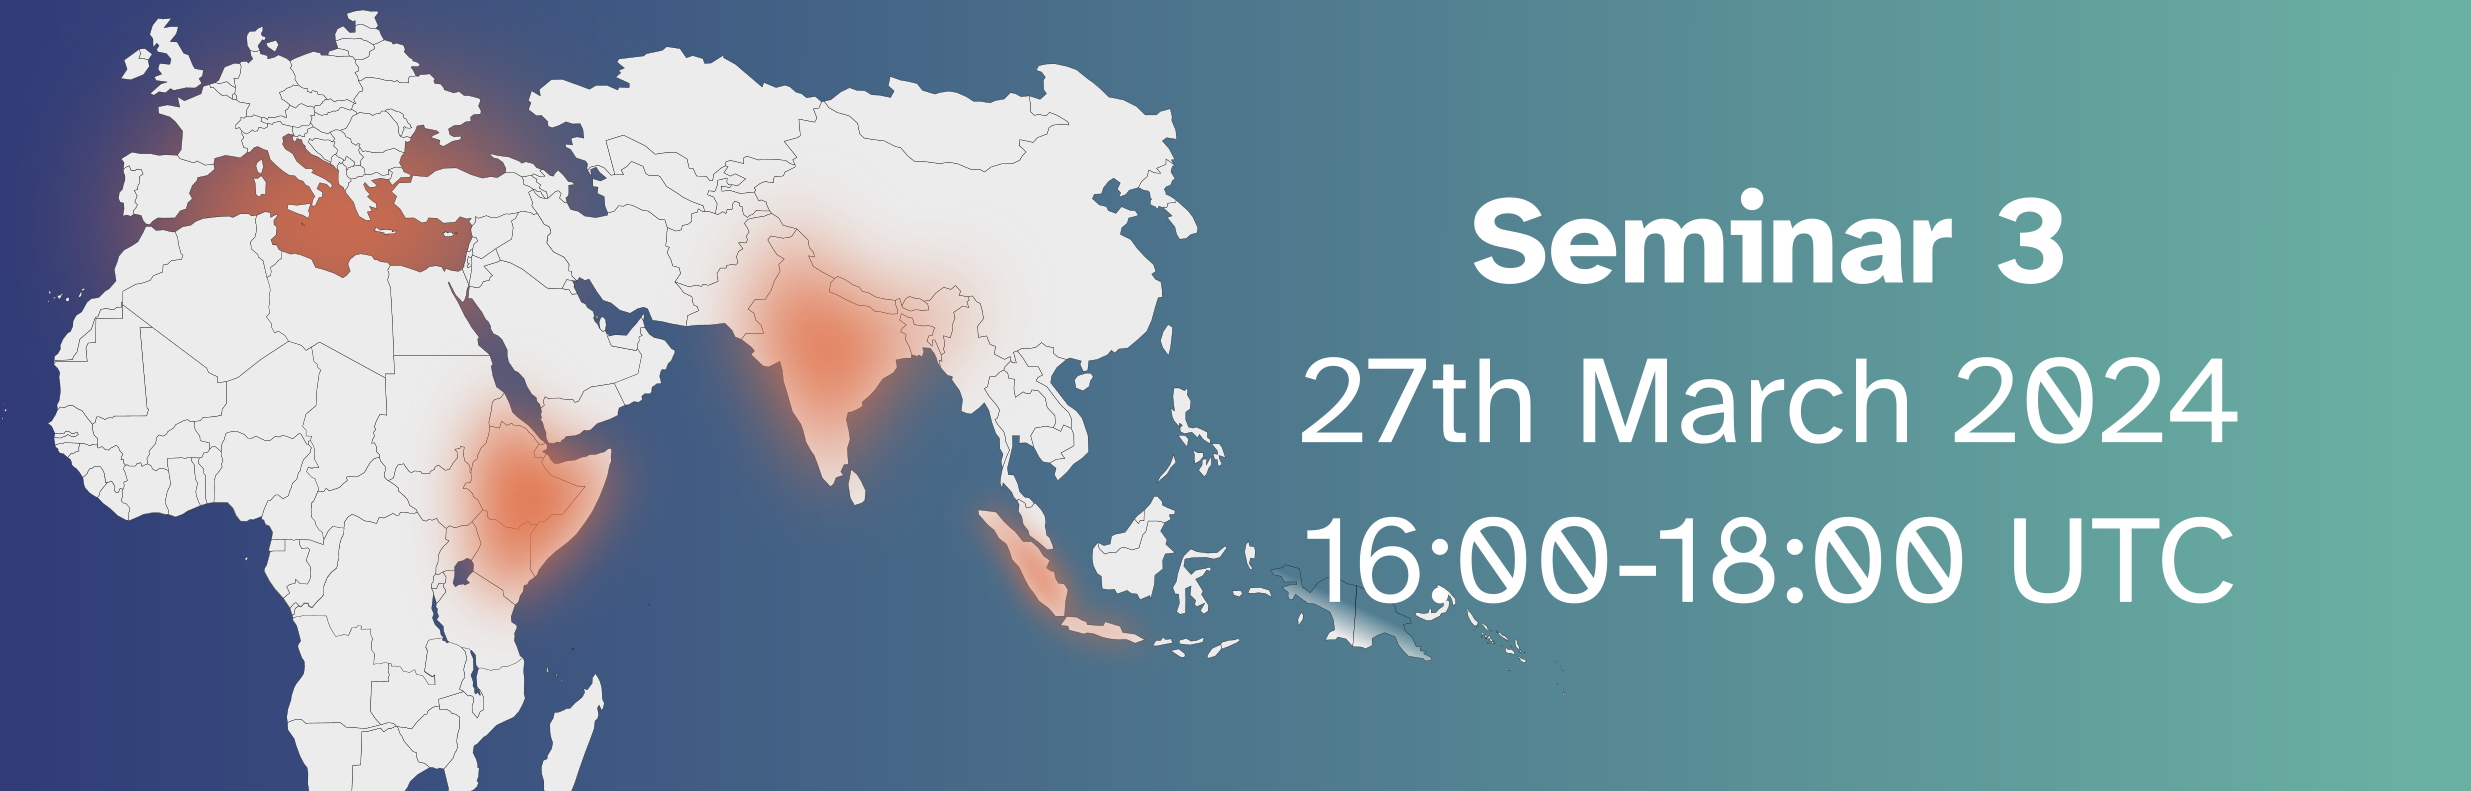
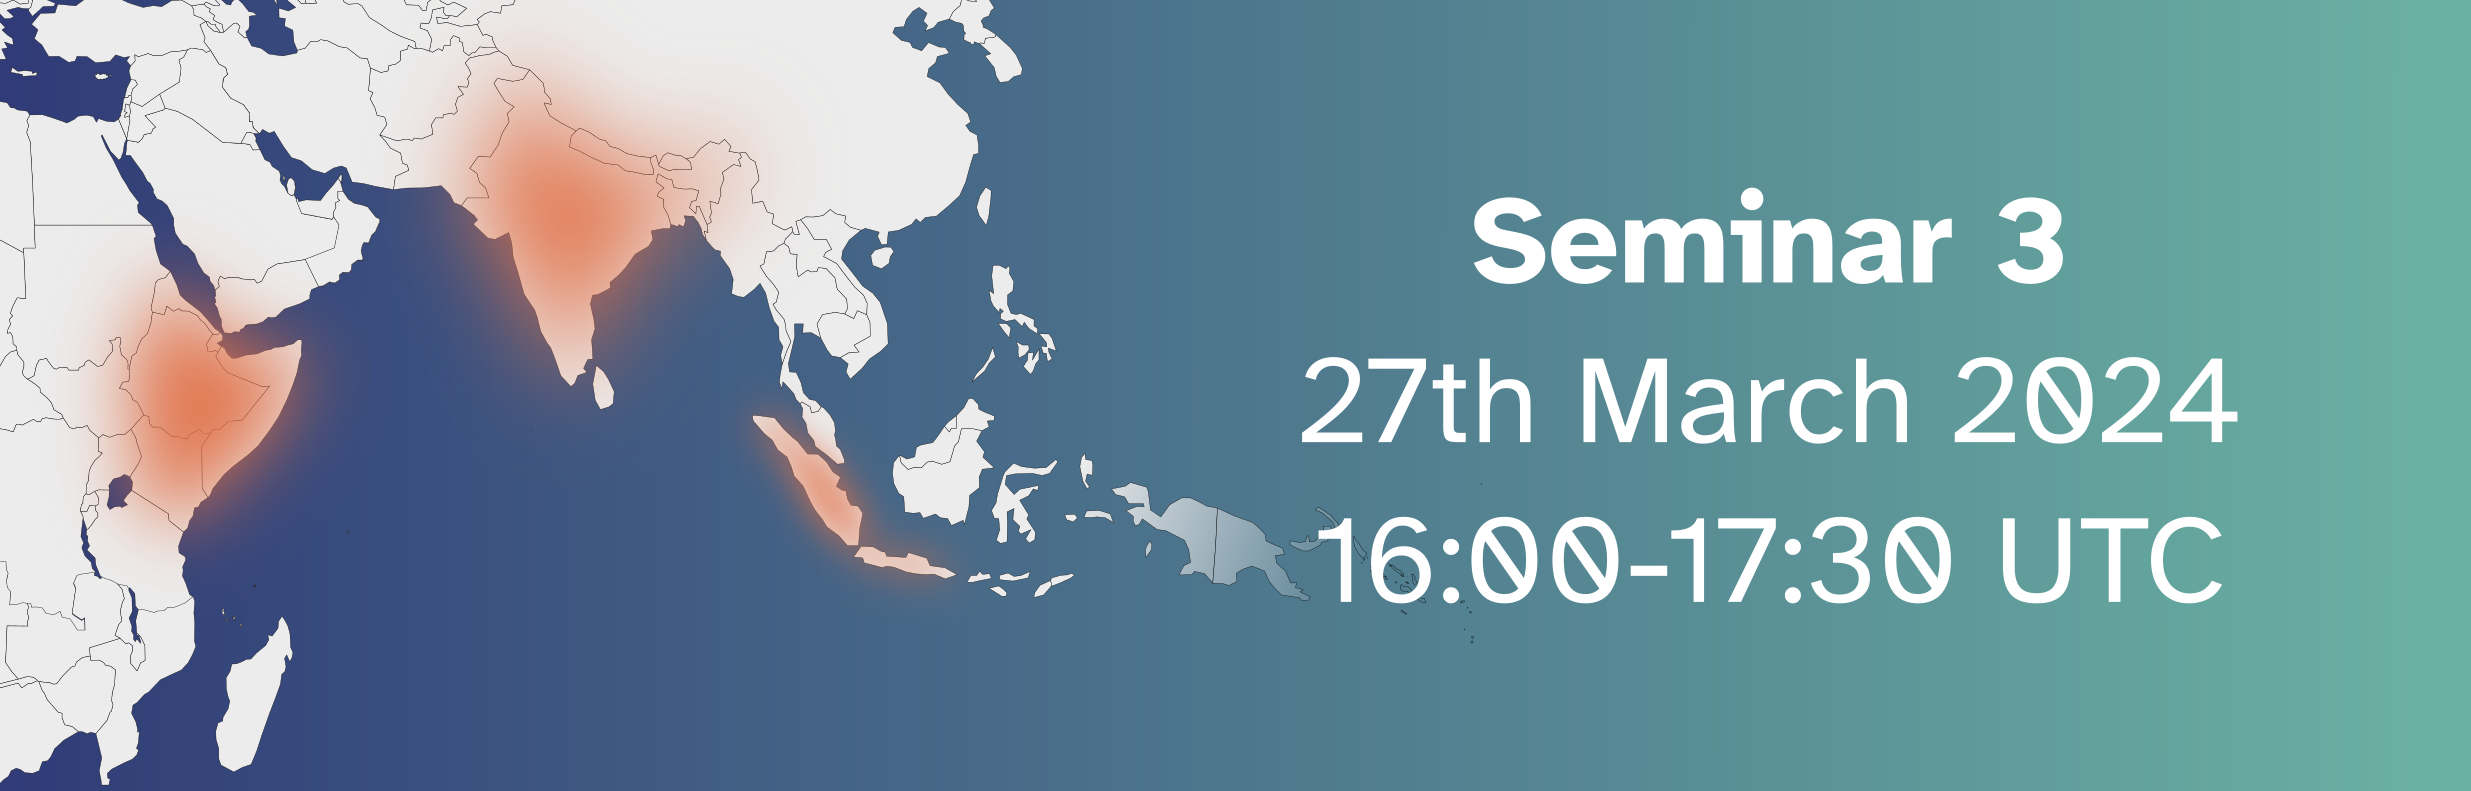
Update projects post-editing

diff --git a/impact-scholars/scholars2023.md b/impact-scholars/scholars2023.md
@@ -1,6 +1,6 @@
 # Impact Scholar projects 2023
 
-We are thrilled to introduce **14 teams** of **65 Impact Scholars** representing **28 countries** as part of our 2023 cohort! 
+We are thrilled to introduce **12 teams** of **59 Impact Scholars** representing **28 countries** as part of our 2023 cohort! 
 
 Their ambitious projects focus on pressing climate issues on local and global scales, as well as their societal impact. Learn more about their projects below!
 
@@ -14,60 +14,52 @@ A representation of the scholar projects' geographical regions of focus. The two
 ---
 <table style="width:90%">
 <tr>
-    <td style="text-align: center; line-height: 20px; color: black; font-size: 14px; font-weight: bold; width: 20px; background-color: #a2bbd4; margin: 10px 0px;">1. </td>
-    <td style="text-align: left; line-height: 20px; color: black; font-size: 14px; margin: 10px 0px;"><a href = "https://programs.climatematch.io/scholar-outputs/2023/project1.html">Analyzing Global Wind Potential for the Next 50 Years and its socio-economic impact</a><br>Shashank Kumar Roy , Anonymous Contributor<sup>*</sup></td>
-</tr>
-<tr>
-    <td style="text-align: center; line-height: 20px; color: white; font-size: 14px; font-weight: bold; width: 20px; background-color: #313f76; margin: 10px 0px;">2. </td>
+    <td style="text-align: center; line-height: 20px; color: white; font-size: 14px; font-weight: bold; width: 20px; background-color: #313f76; margin: 10px 0px;">1. </td>
     <td style="text-align: left; line-height: 20px; color: black; font-size: 14px; margin: 10px 0px;"><a href = "https://programs.climatematch.io/scholar-outputs/2023/project2.html">Observing ECCO Model vs Tidal Gauges around Hurricane Maria</a><br>Franck Porteous, Hannah Krohn, Faith Hunja</td>
 </tr>
 <tr>
-    <td style="text-align: center; line-height: 20px; color: black; font-size: 14px; font-weight: bold; width: 20px; background-color: #a2bbd4; margin: 10px 0px;">3. </td>
+    <td style="text-align: center; line-height: 20px; color: black; font-size: 14px; font-weight: bold; width: 20px; background-color: #a2bbd4; margin: 10px 0px;">2. </td>
     <td style="text-align: left; line-height: 20px; color: black; font-size: 14px; margin: 10px 0px;"><a href = "https://programs.climatematch.io/scholar-outputs/2023/project3.html">Assessing Spatio-Temporal Precipitation Variability and Extreme Events in India</a><br>Stefy Thomas, Khushi Dani, Sattiki Ganguly, Pandurang Choudhari</td>
 </tr>
 <tr>
-    <td style="text-align: center; line-height: 20px; color: black; font-size: 14px; font-weight: bold; width: 20px; background-color: #67ada9; margin: 10px 0px;">4. </td>
+    <td style="text-align: center; line-height: 20px; color: black; font-size: 14px; font-weight: bold; width: 20px; background-color: #67ada9; margin: 10px 0px;">3. </td>
     <td style="text-align: left; line-height: 20px; color: black; font-size: 14px; margin: 10px 0px;"><a href = "https://programs.climatematch.io/scholar-outputs/2023/project4.html">Influence of ENSO on the coastal upwelling along Northwest Africa</a><br>Sthitapragya Ray, Elizaveta Baranova-Parfenova, Andrea A. Cabrera, Diana Marcela Guzmán Lugo, Daria Proklova
 </td>
 </tr>
 <tr>
-    <td style="text-align: center; line-height: 20px; color: black; font-size: 14px; font-weight: bold; width: 20px; background-color: #67ada9; margin: 10px 0px;">5. </td>
+    <td style="text-align: center; line-height: 20px; color: black; font-size: 14px; font-weight: bold; width: 20px; background-color: #67ada9; margin: 10px 0px;">4. </td>
     <td style="text-align: left; line-height: 20px; color: black; font-size: 14px; margin: 10px 0px;"><a href = "https://programs.climatematch.io/scholar-outputs/2023/project5.html">Assessment of fire events in Argentinian Andean-Patagonian Forests between 2002-2020</a><br>Franco Barrionuevo, Raphael Rocha, Cristian Farfan, Ricardo Rengifo, Luciana Rojas</td>
 </tr>
 <tr>
-    <td style="text-align: center; line-height: 20px; color: black; font-size: 14px; font-weight: bold; width: 20px; background-color: #f0ba7d; margin: 10px 0px;">6. </td>
+    <td style="text-align: center; line-height: 20px; color: black; font-size: 14px; font-weight: bold; width: 20px; background-color: #f0ba7d; margin: 10px 0px;">5. </td>
     <td style="text-align: left; line-height: 20px; color: black; font-size: 14px; margin: 10px 0px;"><a href = "https://programs.climatematch.io/scholar-outputs/2023/project6.html">Heatwave analysis for Asia (India)</a><br>Ahmad Rashiq, Arihant Jain, Seyed Mehdi Mirbazel</td>
 </tr>
 <tr>
-    <td style="text-align: center; line-height: 20px; color: black; font-size: 14px; font-weight: bold; width: 20px; background-color: #a2bbd4; margin: 10px 0px;">7. </td>
-    <td style="text-align: left; line-height: 20px; color: black; font-size: 14px; margin: 10px 0px;"><a href = "https://programs.climatematch.io/scholar-outputs/2023/project7.html">Impact of Deforestation and Multi-year Cyclical Processes on Precipitation Patterns and Cereal Production in Congo River Basin</a><br>James Hartzell, Magda Altman, Pratik Bhandari, Lorenzo Pierini, Masoumeh Bahri, Rajiv Kumar Srivastava, Jeffrey N.A. Ayree</td>
+    <td style="text-align: center; line-height: 20px; color: black; font-size: 14px; font-weight: bold; width: 20px; background-color: #a2bbd4; margin: 10px 0px;">6. </td>
+    <td style="text-align: left; line-height: 20px; color: black; font-size: 14px; margin: 10px 0px;"><a href = "https://programs.climatematch.io/scholar-outputs/2023/project7.html">Oceanic oscillations and Congo River Basin climatology</a><br>James Hartzell, Magda Altman, Rajiv Srivastava, Pratik Bhandari, Jeffrey N.A. Ayree, Lorenzo Pierini, Masoumeh Bahri</td>
 </tr>
 <tr>
-    <td style="text-align: center; line-height: 20px; color: black; font-size: 14px; font-weight: bold; width: 20px; background-color: #67ada9; margin: 10px 0px;">8. </td>
+    <td style="text-align: center; line-height: 20px; color: black; font-size: 14px; font-weight: bold; width: 20px; background-color: #67ada9; margin: 10px 0px;">7. </td>
     <td style="text-align: left; line-height: 20px; color: black; font-size: 14px; margin: 10px 0px;"><a href = "https://programs.climatematch.io/scholar-outputs/2023/project8.html">Preliminary observations on the AVHRR-VIIRS v5 daily NDVI data for the assessment of vegetation-climate dynamics in the Jubba-Shabelle watershed of East Africa</a><br>Jesús Pozo, Andrea Miranda, Sergei Nabatov, Alethia Kielbasa, Abdus Samad, Benedetta Francesconi</td>
 </tr>
 <tr>
-    <td style="text-align: center; line-height: 20px; color: black; font-size: 14px; font-weight: bold; width: 20px; background-color: #67ada9; margin: 10px 0px;">9. </td>
+    <td style="text-align: center; line-height: 20px; color: black; font-size: 14px; font-weight: bold; width: 20px; background-color: #67ada9; margin: 10px 0px;">8. </td>
     <td style="text-align: left; line-height: 20px; color: black; font-size: 14px; margin: 10px 0px;"><a href = "https://programs.climatematch.io/scholar-outputs/2023/project9.html">Impact of Interannual Variability on the Onset of Summer Monsoon over the Indonesia-Northern Australia Region</a><br>Zhixian Yang, Selyn Rousse Acuña, Tejawini M. Pawase, René Navarro Labastida, Rosmery Lidez Condori, Naomi Nafisa Rahman</td>
 </tr>
 <tr>
-    <td style="text-align: center; line-height: 20px; color: black; font-size: 14px; font-weight: bold; width: 20px; background-color: #f0ba7d; margin: 10px 0px;">10. </td>
-    <td style="text-align: left; line-height: 20px; color: black; font-size: 14px; margin: 10px 0px;"><a href = "https://programs.climatematch.io/scholar-outputs/2023/project10.html">The Past and Future of Mediterranean Heat Waves</a><br>Lana Flanjak, Natalia Gabdrakhmanova, Farukcan Sağlam, Timon Kunze</td>
-</tr>
-<tr>
-    <td style="text-align: center; line-height: 20px; color: black; font-size: 14px; font-weight: bold; width: 20px; background-color: #67ada9; margin: 10px 0px;">11. </td>
+    <td style="text-align: center; line-height: 20px; color: black; font-size: 14px; font-weight: bold; width: 20px; background-color: #67ada9; margin: 10px 0px;">9. </td>
     <td style="text-align: left; line-height: 20px; color: black; font-size: 14px; margin: 10px 0px;"><a href = "https://programs.climatematch.io/scholar-outputs/2023/project11.html">Impacts of ENSO on climate variables in the Pacific region</a><br>Anjana Shree RJ, Kimia Marvi, Kirtana Sunil Phatnani, Neil Marc Sordilla, Eligio Maure, Danny McCulloch</td>
 </tr>
 <tr>
-    <td style="text-align: center; line-height: 20px; color: black; font-size: 14px; font-weight: bold; width: 20px; background-color: #67ada9; margin: 10px 0px;">12. </td>
+    <td style="text-align: center; line-height: 20px; color: black; font-size: 14px; font-weight: bold; width: 20px; background-color: #67ada9; margin: 10px 0px;">10. </td>
     <td style="text-align: left; line-height: 20px; color: black; font-size: 14px; margin: 10px 0px;"><a href = "https://programs.climatematch.io/scholar-outputs/2023/project12.html">Understanding historical and future impacts of El Niño on climate and food production in Colombia and Indonesia</a><br>Elisa Nóbrega Passos, Lakhvinder Kaur, Ninibeth Gibelli Sarmiento Herrera</td>
 </tr>
 <tr>
-    <td style="text-align: center; line-height: 20px; color: white; font-size: 14px; font-weight: bold; width: 20px; background-color: #596a63; margin: 10px 0px;">13. </td>
+    <td style="text-align: center; line-height: 20px; color: white; font-size: 14px; font-weight: bold; width: 20px; background-color: #596a63; margin: 10px 0px;">11. </td>
     <td style="text-align: left; line-height: 20px; color: black; font-size: 14px; margin: 10px 0px;"><a href = "https://programs.climatematch.io/scholar-outputs/2023/project13.html">Understanding Land Cover Change in a Tropical Region due to Rapid Agricultural Increase: Interactions with Environmental and Socioeconomic Factors</a><br>Sofia Corradi Oliveira, Andrés Fernando Figueroa Curo, Magnolia Song,  Manojna Polisetty, Daniela Velásquez, Maryann Alessandra Alata Chambilla</td>
 </tr>
 <tr>
-    <td style="text-align: center; line-height: 20px; color: black; font-size: 14px; font-weight: bold; width: 20px; background-color: #e18256; margin: 10px 0px;">14. </td>
+    <td style="text-align: center; line-height: 20px; color: black; font-size: 14px; font-weight: bold; width: 20px; background-color: #e18256; margin: 10px 0px;">12. </td>
     <td style="text-align: left; line-height: 20px; color: black; font-size: 14px; margin: 10px 0px;"><a href = "https://programs.climatematch.io/scholar-outputs/2023/project14.html">Wildfires in Angola: Correlation of vegetation and meteorological variables with wildfire intensity</a><br>Agnessa Karapetian, Kamil Vlcek, Carolina Temporão, Hatice Busragokbunar, Sedem Buabassah</td>
 </tr>
 </table>

diff --git a/output-guidelines/seminar_presentations.md b/output-guidelines/seminar_presentations.md
@@ -6,7 +6,7 @@ These seminars will be <u>open to the public</u>. Please register for the semina
 
 The <u>last 30 minutes of each event</u> will be dedicated to networking sessions between the presenting scholars and scientists from CMIP and LEAP.
 
-## Seminar 1: 26th March, 10:00-11:30 UTC
+## Seminar 1: 26th March, 10:00-12:00 UTC
 ```{figure} ../impact-scholars/images/seminar_banner_1.png
 ---
 width: 100%
@@ -16,7 +16,7 @@ width: 100%
 
 - [**Wildfires in Angola: Correlation of vegetation and meteorological variables with wildfire intensity**](../scholar-outputs/2023/project14)
 
-- [**Impact of Deforestation and Multi-year Cyclical Processes on Precipitation Patterns and Cereal Production in Congo River Basin**](../scholar-outputs/2023/project7)
+- [**Oceanic oscillations and Congo River Basin climatology**](../scholar-outputs/2023/project7)
 
 <center><div onclick="location.href='https://us06web.zoom.us/meeting/register/tZwpduiuqT8oE9JAiO5uqSslAyG-pd4RYXpT';" id="clickybox"; style="text-align: center; line-height: 30px; color: white; font-size: 16px; font-weight: bold; width: 300px;"><div style="background-color: #313f76; margin: 30px 10px;">REGISTER FOR SEMINAR 1</div></div></center>
 
@@ -31,8 +31,6 @@ width: 100%
 - [**Impact of Interannual Variability on the Onset of Summer Monsoon over the Indonesia-Northern Australia Region**](../scholar-outputs/2023/project9)
 
 - [**Assessing Spatio-Temporal Precipitation Variability and Extreme Events in India**](../scholar-outputs/2023/project3)
-
-- [**Analyzing Global Wind Potential for the Next 50 Years and its socio-economic impact**](../scholar-outputs/2023/project1)
 
 - [**Understand underlying mechanisms of ENSO and predicting its impact on the countries surrounding the Niño Region**](../scholar-outputs/2023/project11)
 
@@ -53,14 +51,12 @@ width: 100%
 
 - [**Preliminary observations on the AVHRR-VIIRS v5 daily NDVI data for the assessment of vegetation-climate dynamics in the Jubba-Shabelle watershed of East Africa**](../scholar-outputs/2023/project8)
 
-- [**The Past and Future of Mediterranean Heat Waves**](../scholar-outputs/2023/project10)
-
 <center><div onclick="location.href='https://us06web.zoom.us/meeting/register/tZElcOmsqzwvHtyDOYX6H92WyQkx39g5xQxz';" id="clickybox"; style="text-align: center; line-height: 30px; color: white; font-size: 16px; font-weight: bold; width: 300px;"><div style="background-color: #313f76; margin: 30px 10px;">REGISTER FOR SEMINAR 3</div></div></center>
 
 <hr style="border:2px solid gray">
 
 
-## Seminar 4: 27th March, 21:00-22:30 UTC
+## Seminar 4: 27th March, 21:00-23:00 UTC
 ```{figure} ../impact-scholars/images/seminar_banner_4.png
 ---
 width: 100%

diff --git a/impact-scholars/mentors.md b/impact-scholars/mentors.md
@@ -11,7 +11,7 @@ Mentors are **experienced scientists interested in supporting a group throughout
 - **Emma Daniels**
   - [*Influence of ENSO on the coastal upwelling along Northwest Africa*](../scholar-outputs/2023/project4)
 - **Surajit Deb Barma**
-  - [*Impact of Deforestation and Multi-year Cyclical Processes on Precipitation Patterns and Cereal Production in Congo River Basin*](../scholar-outputs/2023/project7)
+  - [*Oceanic oscillations and Congo River Basin climatology*](../scholar-outputs/2023/project7)
   - [*Preliminary observations on the AVHRR-VIIRS v5 daily NDVI data for the assessment of vegetation-climate dynamics in the Jubba-Shabelle watershed of East Africa*](../scholar-outputs/2023/project8)
 - **Brittany Engle**
   - [*Assessment of fire events in Argentinian Andean-Patagonian Forests between 2002-2020*](../scholar-outputs/2023/project5)
@@ -23,10 +23,6 @@ Mentors are **experienced scientists interested in supporting a group throughout
   - [*Understanding historical and future impacts of El Niño on climate and food production in Colombia and Indonesia*](../scholar-outputs/2023/project12)
 - **Oz Kira**
   - [*Understanding Land Cover Change in a Tropical Region due to Rapid Agricultural Increase: Interactions with Environmental and Socioeconomic Factors*](../scholar-outputs/2023/project13)
-- **Kenny T.C. Lim Kam Sian**
-  - [*The Past and Future of Mediterranean Heat Waves*](../scholar-outputs/2023/project10)
-- **Luz de Lourdes Aurora**
-  - [*Analyzing Global Wind Potential for the Next 50 Years and its socio-economic impact*](../scholar-outputs/2023/project1)
 - **Risa Madoff**
   - [*Assessing Spatio-Temporal Precipitation Variability and Extreme Events in India*](../scholar-outputs/2023/project3)
 - **Tejas Dattaram More**

diff --git a/scholar-outputs/2023/project7.md b/scholar-outputs/2023/project7.md
@@ -2,7 +2,15 @@
 
 Team "Fortepiano, Hesperosaurus_bon"
 
-**James Hartzell**, **Magda Altman**, **Pratik Bhandari**, **Lorenzo Pierini**, **Masoumeh Bahri**, **Rajiv Kumar Srivastava**, **Jeffrey N.A. Ayree**
+**James Hartzell**, **Magda Altman**, **Rajiv Srivastava**, **Jeffrey N.A. Ayree**, **Pratik Bhandari**, **Lorenzo Pierini**, **Masoumeh Bahri**
 
 Mentor: **Surajit Deb Barma**
 
+```{figure} project7_summary.png
+---
+width: 100%
+---
+A graphical summary of the project
+```
+---
+The full micropublication will be shared here at the end of March 2024.
